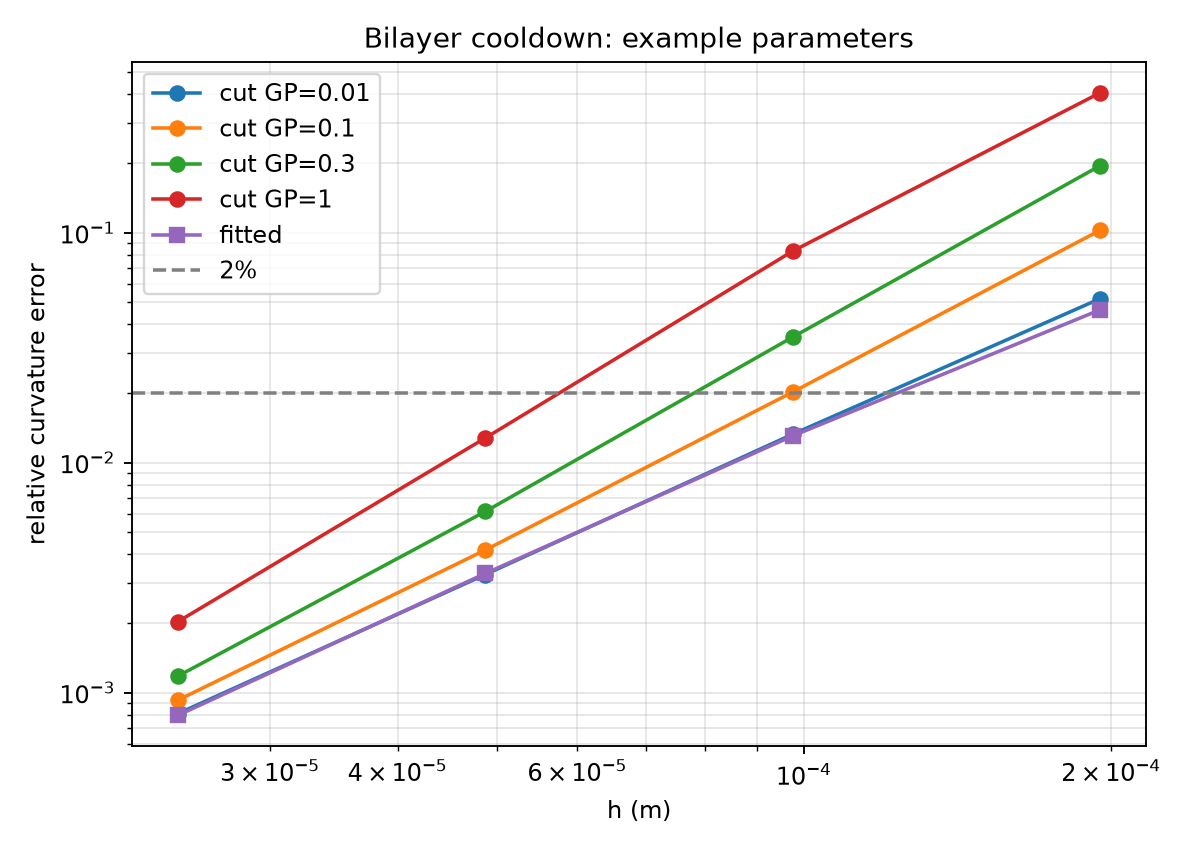
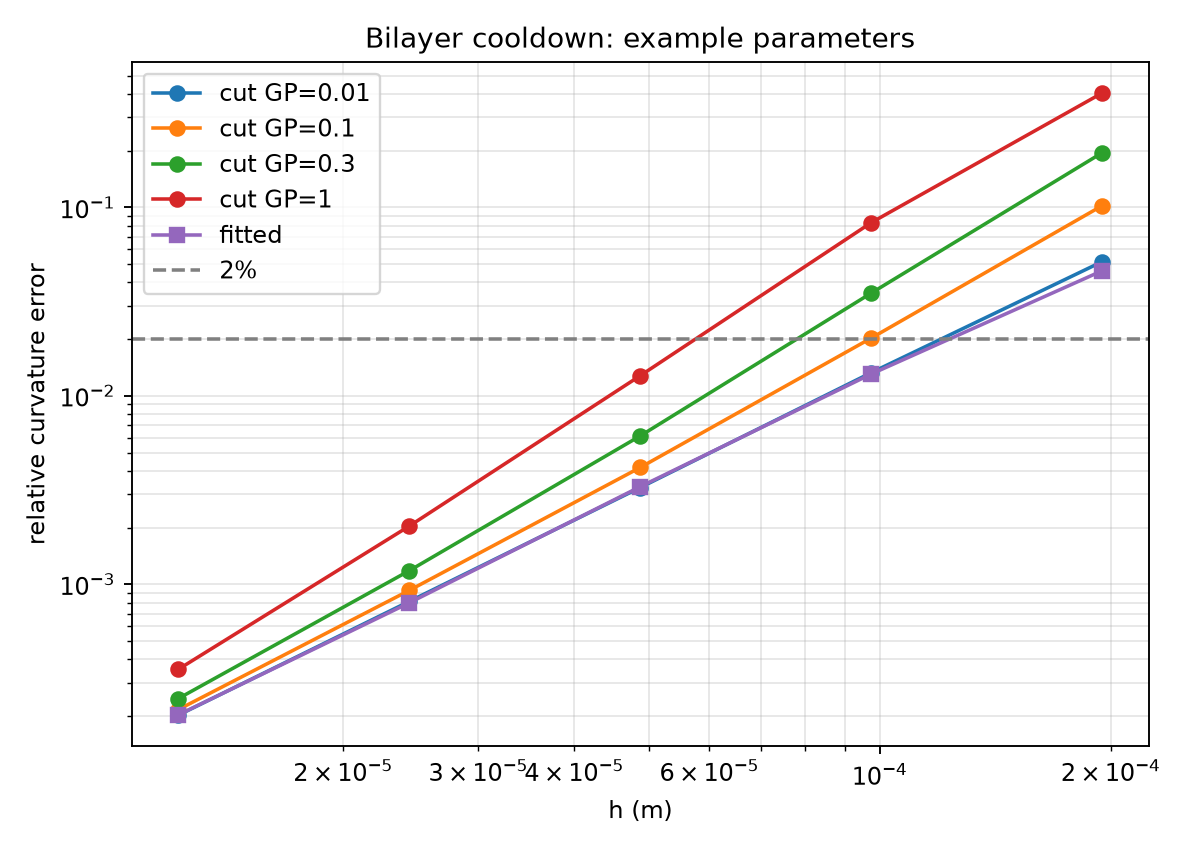
proto(cutfem): Timoshenko 补 Nt=64；summary.md 增加 A5 验收对照表（曲率、AMG 迭代比、gamma_g=0 谱）

diff --git a/solvers/fem/prototypes/cutfem_thermoelastic/scripts/plot.py b/solvers/fem/prototypes/cutfem_thermoelastic/scripts/plot.py
@@ -143,7 +143,7 @@ if candidates:
     lines.append(f'- 在已测参数中，所有物理和 vf 均 SPD 且最细条带曲率相对误差最小的组合为 gamma_N={gn:g}, gamma_g={gg:g}（Nt={sample["Nt"]} 误差 {100*err:.5g}%）；建议作为稳定默认候选。粗网格误差及迭代波动见表，精度/稳定性存在权衡。')
 else:
     lines.append('- 已测条带精度参数中没有覆盖所有扫描物理与 vf 的 SPD 组合，无法据此推荐稳定默认值。')
-for nt in [4, 32]:
+for nt in [4, 32, 64]:
     comparison = [a for a in strip if int(a['Nt']) == nt and number(a, 'gamma_N') == 10 and number(a, 'gamma_g') in (.1, .3)]
     if len(comparison) == 2:
         by_g = {number(a, 'gamma_g'): number(a, 'rel_err_cut') for a in comparison}
@@ -155,6 +155,56 @@ if all(a['amg_status'] == 'unavailable' for a in gp):
 else:
     lines.append('- 本次启用了 hypre 3.2.1；不定矩阵跳过 AMG，其他矩阵实测 AMG-PCG 迭代数见表。')
 lines += ['- 2D Q1、FP64，3D 未实现。递归积分采用角点采样的分片线性 level set；小于子单元且角点不可见的封闭几何不在保证范围内。', f"- 实际默认 gamma_N={info.get('gamma_N')}、gamma_g={info.get('gamma_g_default')}；MMS 表记录实际参数。", '']
+# A5-style acceptance comparison (measured on this 2D Q1 prototype only).
+spectrum_path = r / 'gp_spectrum.csv'
+spec = {}
+if spectrum_path.exists():
+    with spectrum_path.open() as f:
+        spec = {(a['physics'], a['vf'], a['gamma_N'], a['gamma_g']): a for a in csv.DictReader(f)}
+gn_def, gg_def = float(info.get('gamma_N', 20)), float(info.get('gamma_g_default', .1))
+lines += ['## A5 验收对照（2D Q1 自写原型实测）', '',
+          '> 以下全部是本目录 2D Q1、FP64、单进程自写原型的实测，**不是** MFEM 4.10 3D 正式实现的结果；门槛借用架构 A5：曲率相对 Timoshenko ≤2%，AMG 迭代数变化 ≤2×。', '',
+          f'### 曲率（默认 gamma_N={gn_def:g}, gamma_g={gg_def:g}，cut 网格；来源 timoshenko.csv）', '',
+          '| Nt | ndof | kappa_cut | kappa_ref | rel_err_cut | rel_err_fitted | ≤2% |', '| --- | --- | --- | --- | --- | --- | --- |']
+for a in sorted([a for a in strip if number(a, 'gamma_N') == gn_def and np.isclose(number(a, 'gamma_g'), gg_def)], key=lambda a: int(a['Nt'])):
+    e = number(a, 'rel_err_cut')
+    lines.append(f"| {a['Nt']} | {a['ndof']} | {number(a, 'kappa_cut'):.6g} | {number(a, 'kappa_ref'):.6g} | {100*e:.4g}% | {100*number(a, 'rel_err_fitted'):.4g}% | {'是' if e <= .02 else '否'} |")
+lines += ['', '### AMG 迭代数：gamma_g 10 倍范围 × vf 0.5→1e-4（来源 gp_sweep.csv / gp_spectrum.csv）', '',
+          '比值 = 该范围内（5 个 vf × 网格上的 gamma_g）AMG-PCG 迭代数 最大/最小。不定矩阵不跑 AMG，单独计数；“仅 SPD”比值只在剩余情形上算，不能当作整段通过。', '',
+          '| physics | gamma_N | gamma_g 范围 | 情形数 | 不定数 | AMG 最小 | AMG 最大 | 比值(仅 SPD) | 全部 SPD 且 ≤2× |', '| --- | --- | --- | --- | --- | --- | --- | --- | --- |']
+for physics in ['thermal', 'elastic', 'elastic_dirichlet_cut']:
+    for gn in [10, 20, 40]:
+        for low in [.03, .1]:
+            subset = [a for a in gp if a['physics'] == physics and number(a, 'gamma_N') == gn and low * (1-1e-9) <= number(a, 'gamma_g') <= 10 * low * (1+1e-9)]
+            if not subset:
+                continue
+            indef = [a for a in subset if a['indefinite'] != '0']
+            ok = [number(a, 'amg_iterations') for a in subset if a['indefinite'] == '0' and a['amg_status'] == 'ok']
+            if ok:
+                lo, hi = min(ok), max(ok)
+                rat = f'{hi/lo:.3g}'
+                gate = '是' if not indef and len(ok) == len(subset) and hi / lo <= 2 else '否'
+                lines.append(f'| {physics} | {gn} | {low:g}–{10*low:g} | {len(subset)} | {len(indef)} | {lo:g} | {hi:g} | {rat} | {gate} |')
+            else:
+                lines.append(f'| {physics} | {gn} | {low:g}–{10*low:g} | {len(subset)} | {len(indef)} | N/A | N/A | N/A | 否（无 AMG 数据） |')
+lines += ['', f'### gamma_g=0（无 GP）：条件数与定性（gamma_N={gn_def:g}，来源 gp_spectrum.csv 全谱）', '',
+          '对照同 vf 下 gamma_g=' + f'{gg_def:g}' + ' 的 kappa。“不定”= 最小特征值 ≤0，括号内为负特征值个数。', '',
+          '| physics | vf | kappa(gamma_g=0) | kappa(gamma_g=' + f'{gg_def:g}' + ') | 比值 |', '| --- | --- | --- | --- | --- |']
+def fmt_k(a):
+    if a is None:
+        return 'N/A', None
+    if a['indefinite'] != '0':
+        return f"不定（{a['negative_eigenvalues']} 个负特征值）", None
+    return f"{float(a['kappa']):.3e}", float(a['kappa'])
+for physics in ['thermal', 'elastic', 'elastic_dirichlet_cut']:
+    for vf in ['0.5', '0.1', '0.01', '0.001', '0.0001']:
+        a0 = spec.get((physics, vf, f'{gn_def:g}', '0'))
+        a1 = spec.get((physics, vf, f'{gn_def:g}', f'{gg_def:g}'))
+        s0, k0 = fmt_k(a0)
+        s1, k1 = fmt_k(a1)
+        ratio_s = f'{k0/k1:.3g}' if k0 and k1 else '—'
+        lines.append(f'| {physics} | {vf} | {s0} | {s1} | {ratio_s} |')
+lines += ['', '解读：thermal 和 elastic_dirichlet_cut（切割边界上 Nitsche）在 gamma_g=0 时 vf≤0.01 即不定；elastic（切割边为自由边，无 Nitsche）保持正定但 kappa 随 vf 增大到 1e17 量级，接近 FP64 奇异。gamma_N=20 下加 GP（gamma_g=0.1）后三类全部 SPD，kappa 在 vf 0.5→1e-4 内变化 ≤7.1×（thermal 最大，elastic 约 1.14×）；gamma_N=10 时 thermal 在 gamma_g=0.1 仍有不定情形（见上表）。AMG 迭代数本身在 gamma_g=0 的 SPD 情形下几乎不变，因此 GP 必要性的证据主要是谱（不定/条件数），不是迭代数。', '']
 bench = r / 'kokkos_bench.csv'
 if info.get('kokkos') and bench.exists():
     import csv

diff --git a/solvers/fem/prototypes/cutfem_thermoelastic/src/experiments.cpp b/solvers/fem/prototypes/cutfem_thermoelastic/src/experiments.cpp
@@ -424,7 +424,7 @@ void run_timoshenko(const Options& o) {
            "ref,rel_err_cut,rel_err_fitted,warpage_cut,warpage_fitted,thermal_error_cut,thermal_"
            "error_fitted,residual_cut,parameters\n";
     double ref = curvature_reference();
-    std::vector<int> levels = o.N ? std::vector<int>{o.N} : std::vector<int>{4, 8, 16, 32};
+    std::vector<int> levels = o.N ? std::vector<int>{o.N} : std::vector<int>{4, 8, 16, 32, 64};
     for (int Nt : levels) {
         auto fitted = strip(Nt, true, 0, o);
         for (auto [gn, gg] : std::vector<std::pair<double, double>>{
